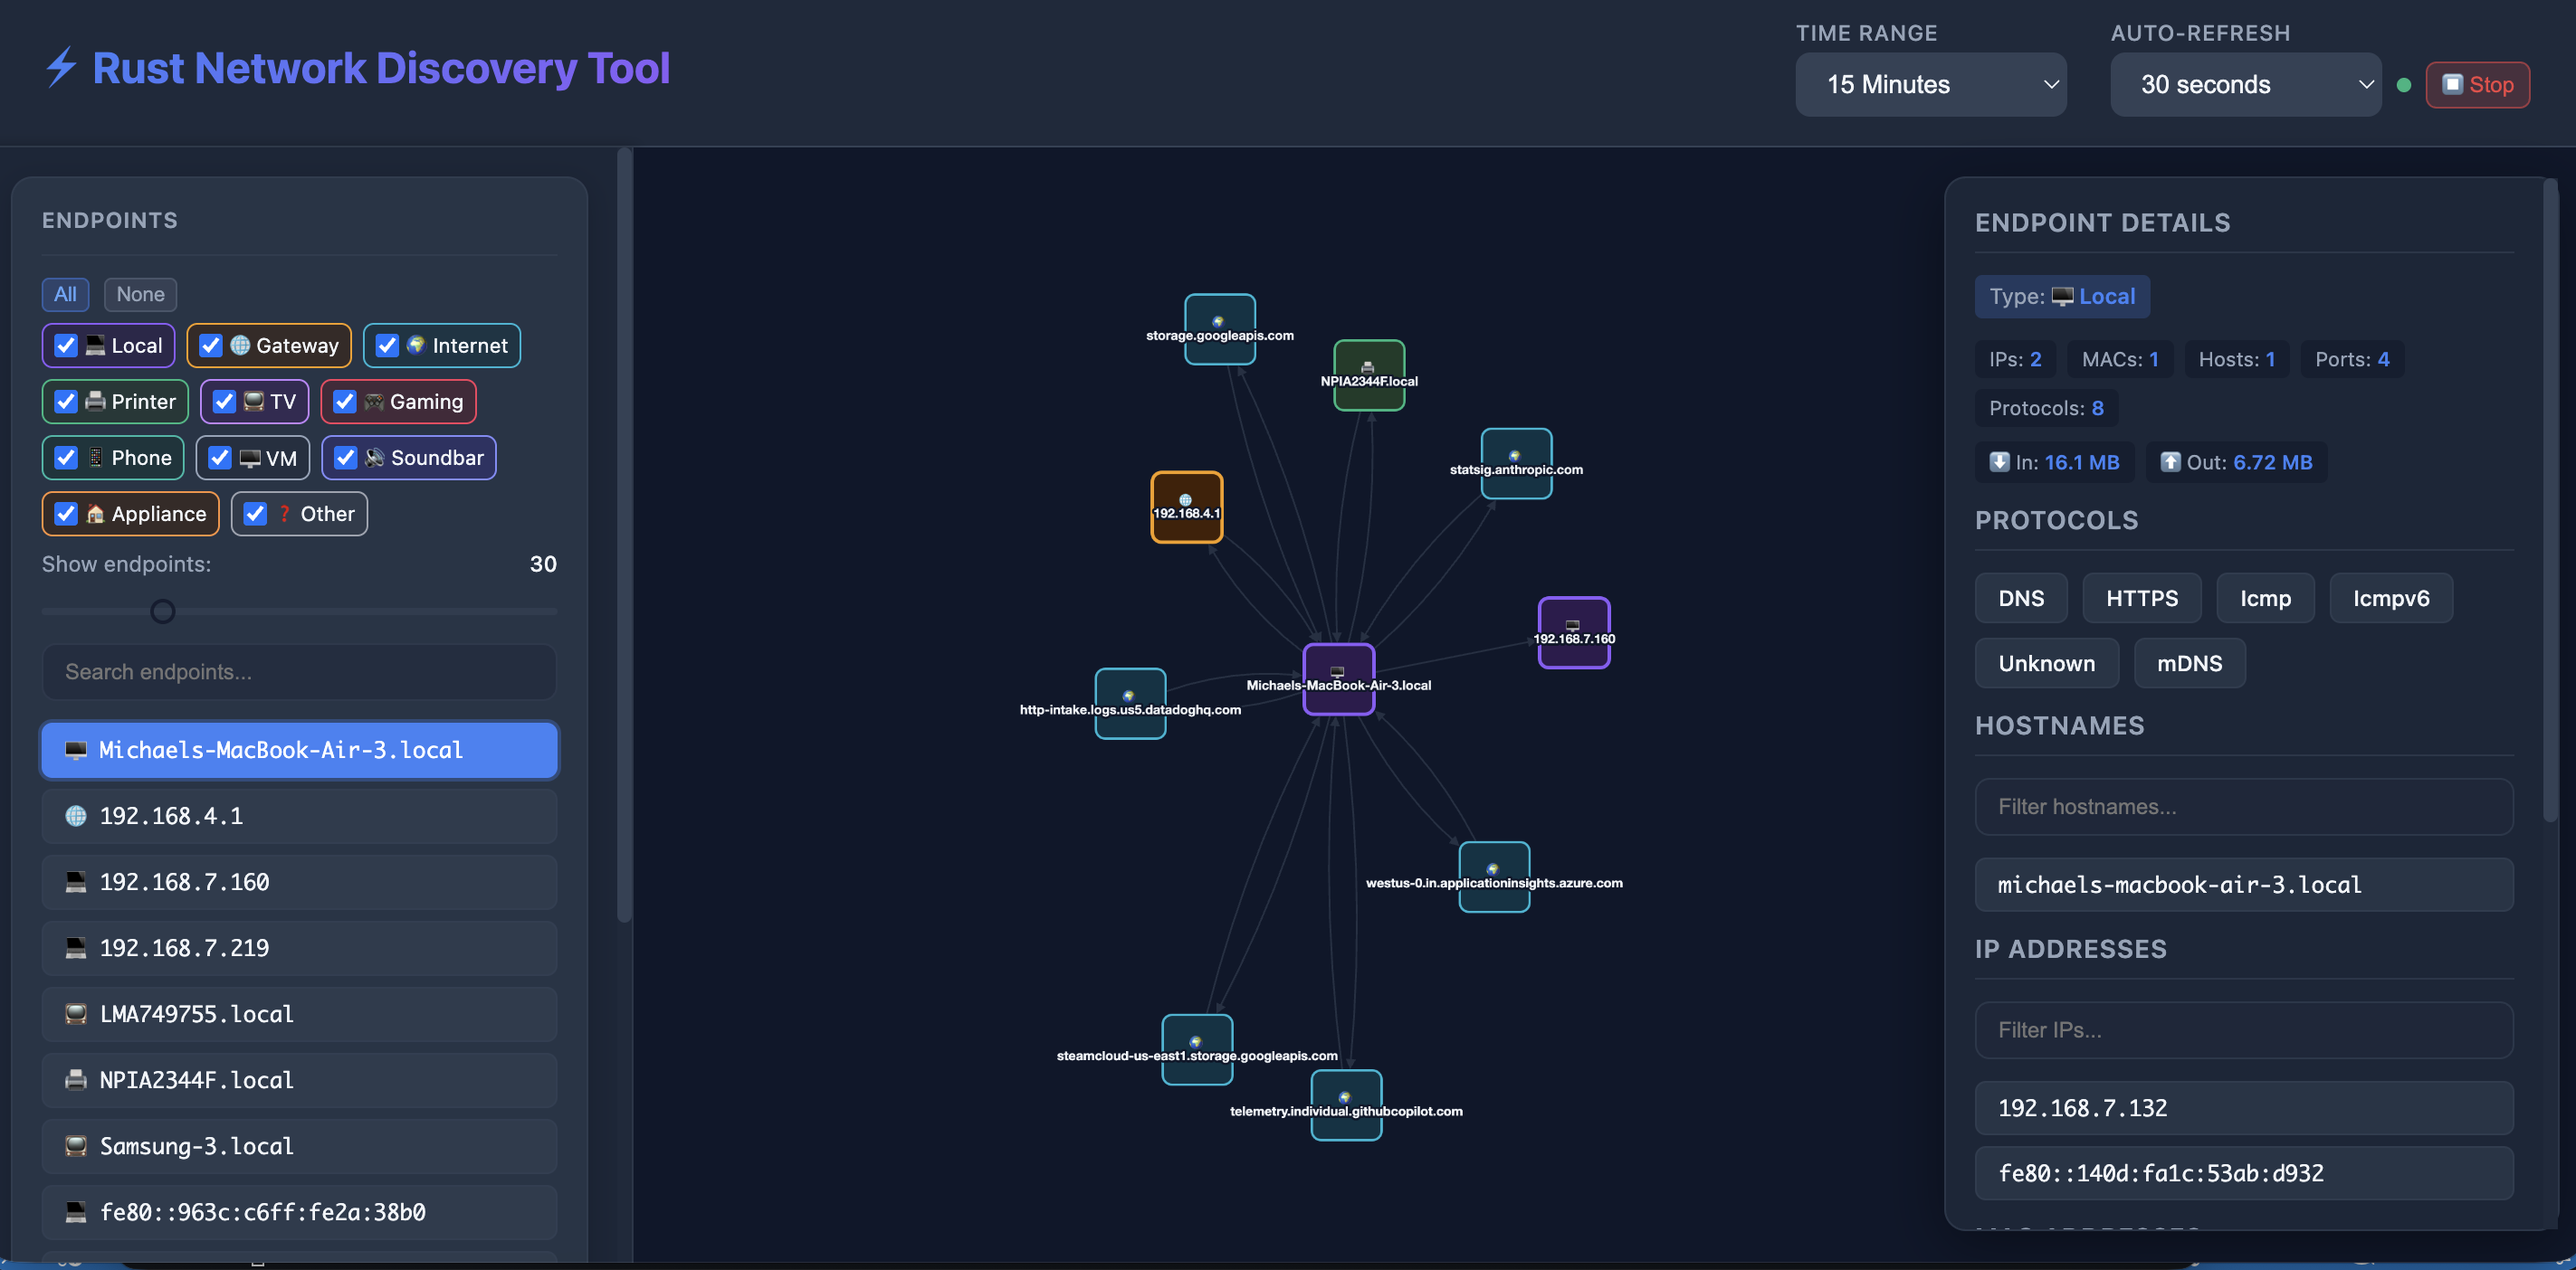
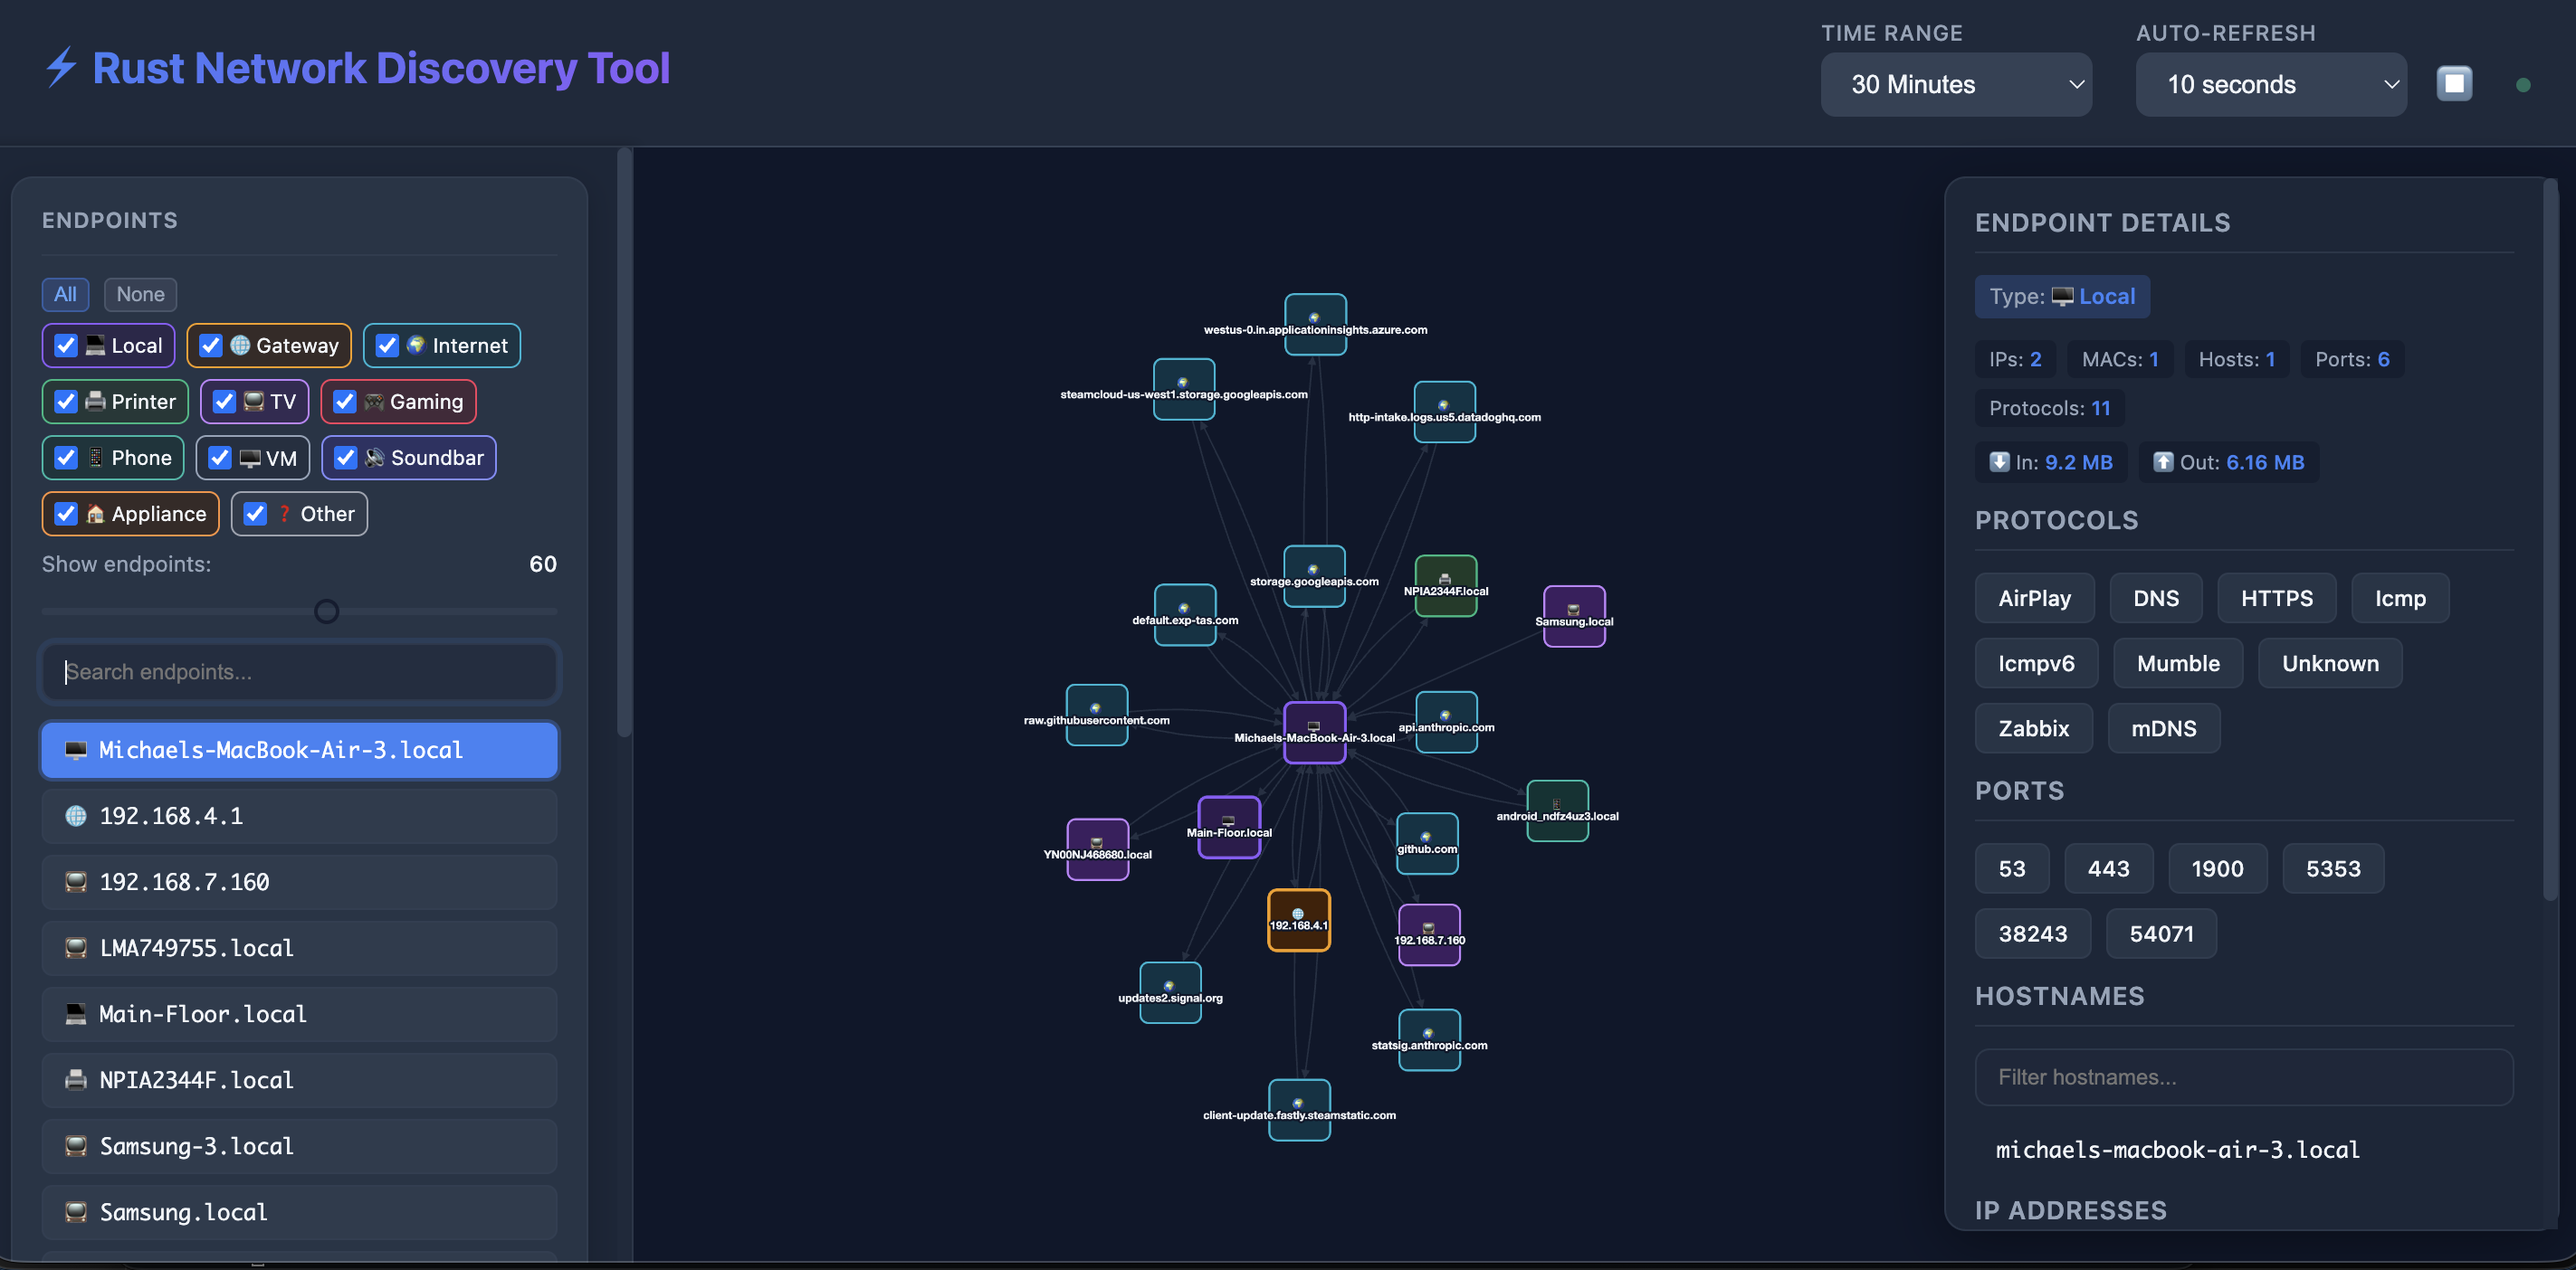
fix: ui

diff --git a/templates/index.html b/templates/index.html
@@ -292,12 +292,11 @@
 
     .stop-refresh-btn {
       padding: 0.25rem 0.5rem;
-      background: rgba(239, 68, 68, 0.2);
-      border: 1px solid rgba(239, 68, 68, 0.5);
-      color: #ef4444;
+      background: transparent;
+      border: none;
       border-radius: 0.375rem;
       cursor: pointer;
-      font-size: 0.75rem;
+      font-size: 1.25rem;
       display: flex;
       align-items: center;
       gap: 0.25rem;
@@ -305,24 +304,11 @@
     }
 
     .stop-refresh-btn:hover {
-      background: rgba(239, 68, 68, 0.3);
-      border-color: #ef4444;
       transform: scale(1.05);
     }
 
     .stop-refresh-btn:active {
       transform: scale(0.95);
-    }
-
-    .stop-refresh-btn.play {
-      background: rgba(34, 197, 94, 0.2);
-      border: 1px solid rgba(34, 197, 94, 0.5);
-      color: #22c55e;
-    }
-
-    .stop-refresh-btn.play:hover {
-      background: rgba(34, 197, 94, 0.3);
-      border-color: #22c55e;
     }
 
     /* Scrollbar styling */
@@ -525,10 +511,10 @@
             <option value="30">30 seconds</option>
             <option value="60">1 minute</option>
           </select>
-          <div class="pulse"></div>
-          <button id="refreshToggleBtn" onclick="toggleRefresh()" class="stop-refresh-btn" title="Stop auto-refresh">
-            ⏹ Stop
+          <button id="refreshToggleBtn" onclick="toggleRefresh()" class="stop-refresh-btn" style="margin-right: 0.5rem;" title="Stop auto-refresh">
+            ⏹
           </button>
+          <div class="pulse"></div>
         </div>
       </div>
     </div>
@@ -1954,12 +1940,12 @@
 
       if (seconds == 0) {
         pulse.classList.add('stopped');
-        toggleBtn.innerHTML = '▶ Play';
+        toggleBtn.innerHTML = '▶';
         toggleBtn.classList.add('play');
         toggleBtn.title = 'Start auto-refresh';
       } else {
         pulse.classList.remove('stopped');
-        toggleBtn.innerHTML = '⏹ Stop';
+        toggleBtn.innerHTML = '⏹';
         toggleBtn.classList.remove('play');
         toggleBtn.title = 'Stop auto-refresh';
 
